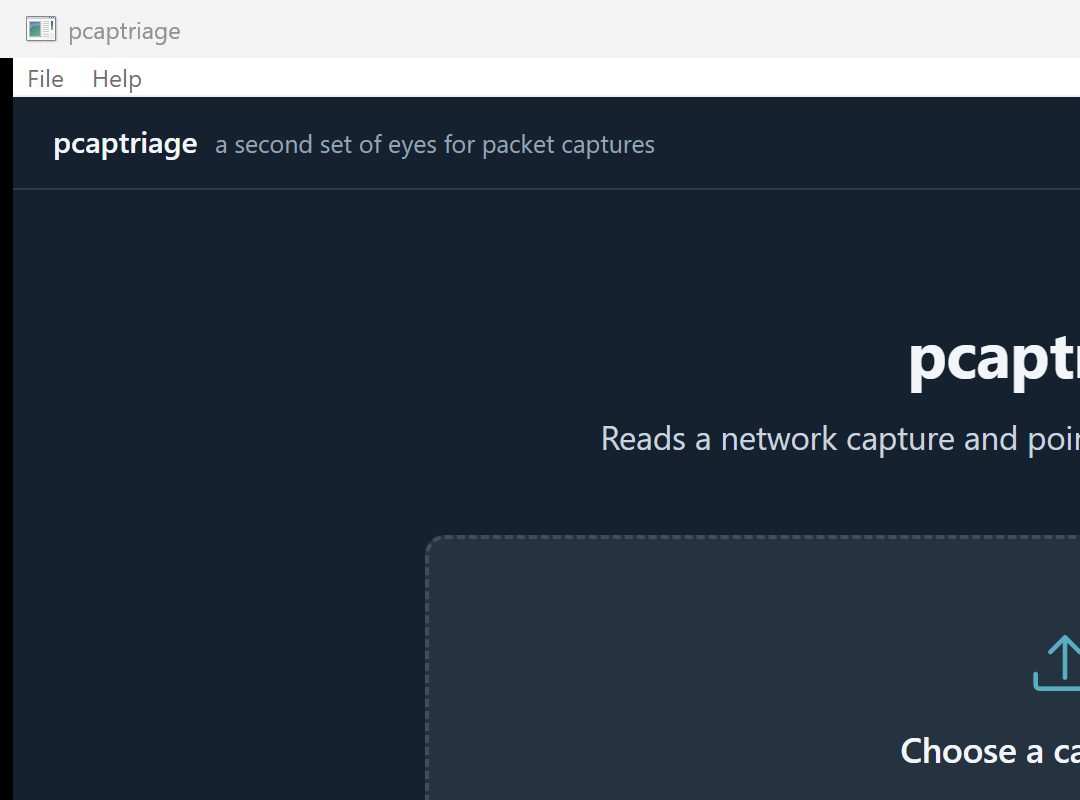
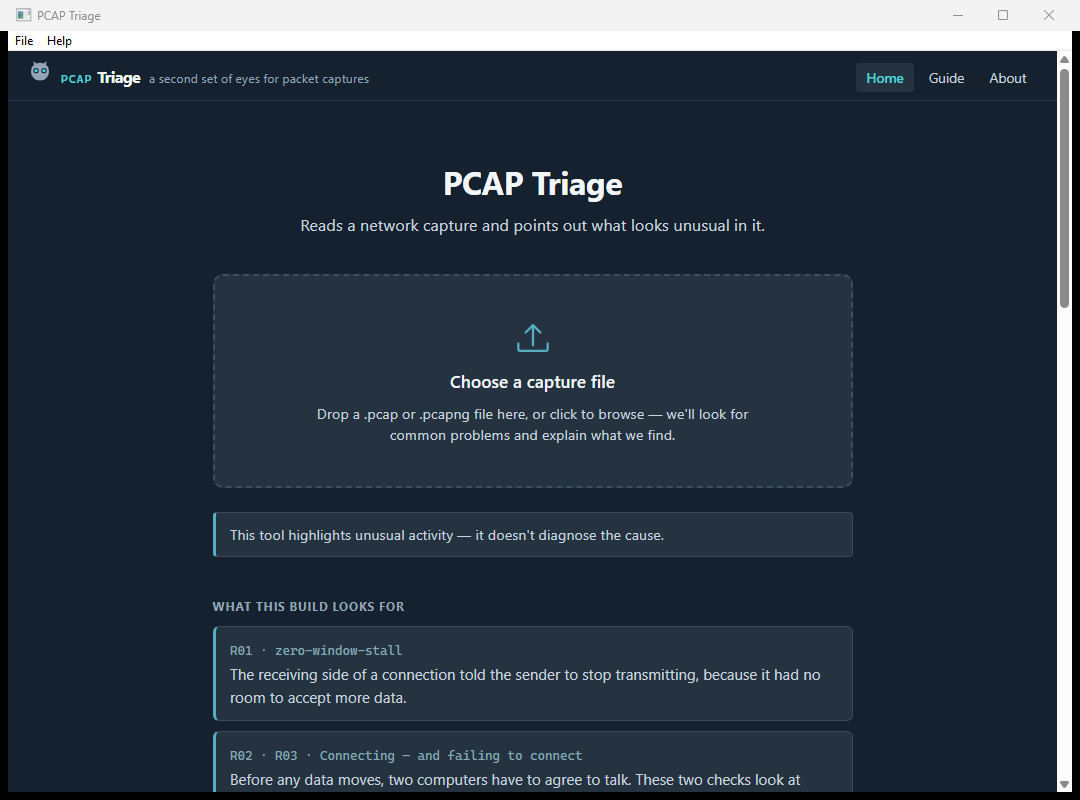
docs: README and screenshot for PCAP Triage
The screenshot was a DPI-scaled capture that had been cropped to 1080x800,
so it showed the top-left corner of the window with the heading cut off
mid-word. Replaced with the whole window at the same dimensions, captured
via PrintWindow so the right window is grabbed rather than whatever happens
to be in front of those screen coordinates.

README names the product in its title and the image alt text. Everything
else that reads pcaptriage there is a filename, a path, a URL or a command,
and stays.

The CHANGELOG entry states explicitly that no rule, threshold, detection
logic or output schema changed, and records the line-ending fix separately
since that one affects contributors rather than users.

diff --git a/CHANGELOG.md b/CHANGELOG.md
@@ -8,7 +8,32 @@ README's release section for what to bump when cutting a tag.
 
 ## Unreleased
 
-Nothing yet.
+### Changed
+
+- **The product is now called PCAP Triage.** The binary, the repository, the
+  module path and the assembly identity all stay `pcaptriage` — only the
+  strings a human reads changed: the window title, the Help menu, the home
+  screen, the About page, and the Windows file properties. The JSON report's
+  `tool.name` deliberately still reads `pcaptriage`, because it identifies
+  which binary produced the file rather than naming the product.
+- **The placeholder icon is gone.** The app shipped with the stock Wails logo,
+  which is what Windows showed in Task Manager and on the SmartScreen prompt —
+  the moment someone decides whether to trust an unsigned download. It is now
+  the product mark, drawn separately at each size rather than resampled.
+- **The app bar and the exported report carry the mark.** The report is the
+  artifact that leaves the building, so it opens with the full lockup and a
+  hairline capture-strip rule beneath it.
+
+No rule, threshold, detection logic or output schema changed in any of this.
+The JSON goldens are byte-identical; only the HTML ones moved.
+
+### Fixed
+
+- **Golden files are stored with Unix line endings again.** They had been
+  committed with Windows ones since v0.2.0-alpha, which made every HTML golden
+  test fail on a fresh clone of the repository — the rendered output and the
+  stored file differed only by invisible characters. This affects contributors
+  running the test suite, not the application or anything it produces.
 
 ## v0.2.1-alpha — 2026-08-21
 

diff --git a/README.md b/README.md
@@ -1,10 +1,10 @@
-# pcaptriage
+# PCAP Triage
 
 A second set of eyes for packet captures. It reads a `.pcap` or `.pcapng` file
 and points out what looks unusual in it, in plain English, ranked so the thing
 most worth your attention is at the top.
 
-![The pcaptriage home screen](docs/screenshot-home.png)
+![The PCAP Triage home screen](docs/screenshot-home.png)
 
 ## Who it's for
 
